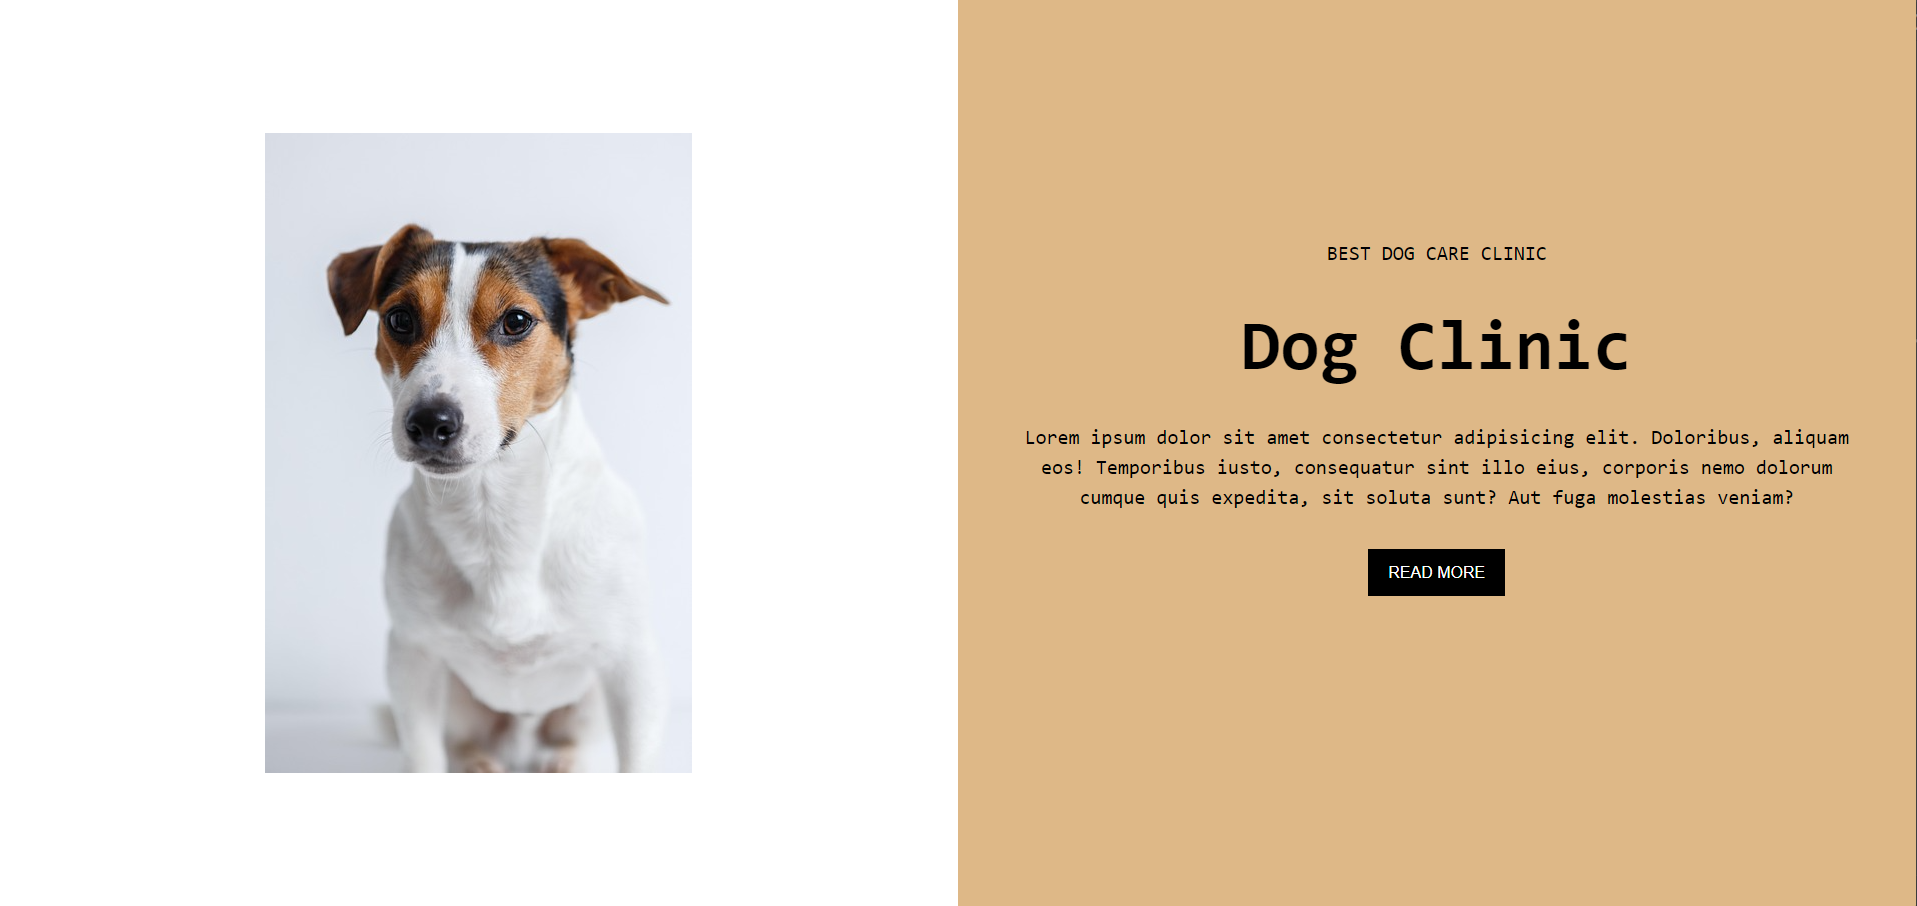
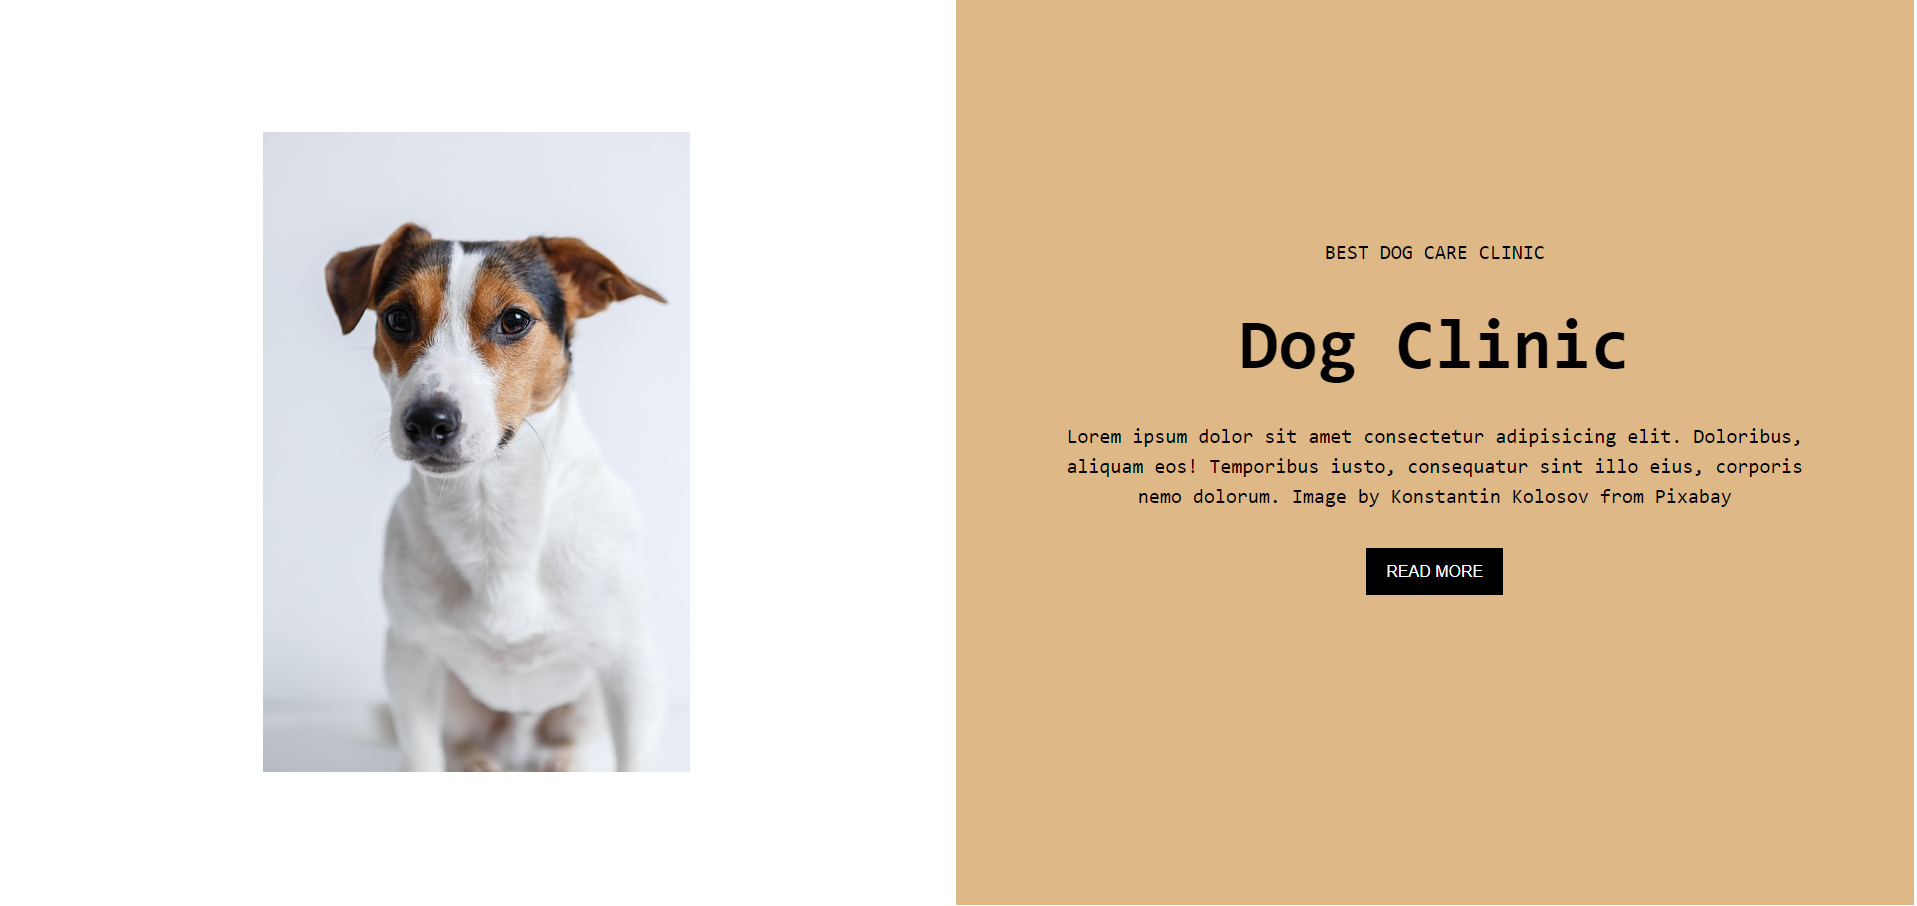
update template

diff --git a/block-template-001.html b/block-template-001.html
@@ -28,12 +28,12 @@
                 <img src="img/dog-01.jpg" class="image-flex" alt="block template 01 image based on getcss template" />
             </div>
             <div class="col-md-6 burlywood fx-center ">
-                <div class="txt-center p-y-25-pr p-x-5-pr">
+                <div class="txt-center p-y-25-pr p-x-10-pr">
                     <p>BEST DOG CARE CLINIC</p>
                     <br />
                     <h1>Dog Clinic</h1>
                     <br />
-                    <p>Lorem ipsum dolor sit amet consectetur adipisicing elit. Doloribus, aliquam eos! Temporibus iusto, consequatur sint illo eius, corporis nemo dolorum cumque quis expedita, sit soluta sunt? Aut fuga molestias veniam?</p>
+                    <p>Lorem ipsum dolor sit amet consectetur adipisicing elit. Doloribus, aliquam eos! Temporibus iusto, consequatur sint illo eius, corporis nemo dolorum. Image by Konstantin Kolosov from Pixabay</p>
                     <br />
                     <br />
                     <a href="#">READ MORE</a>
